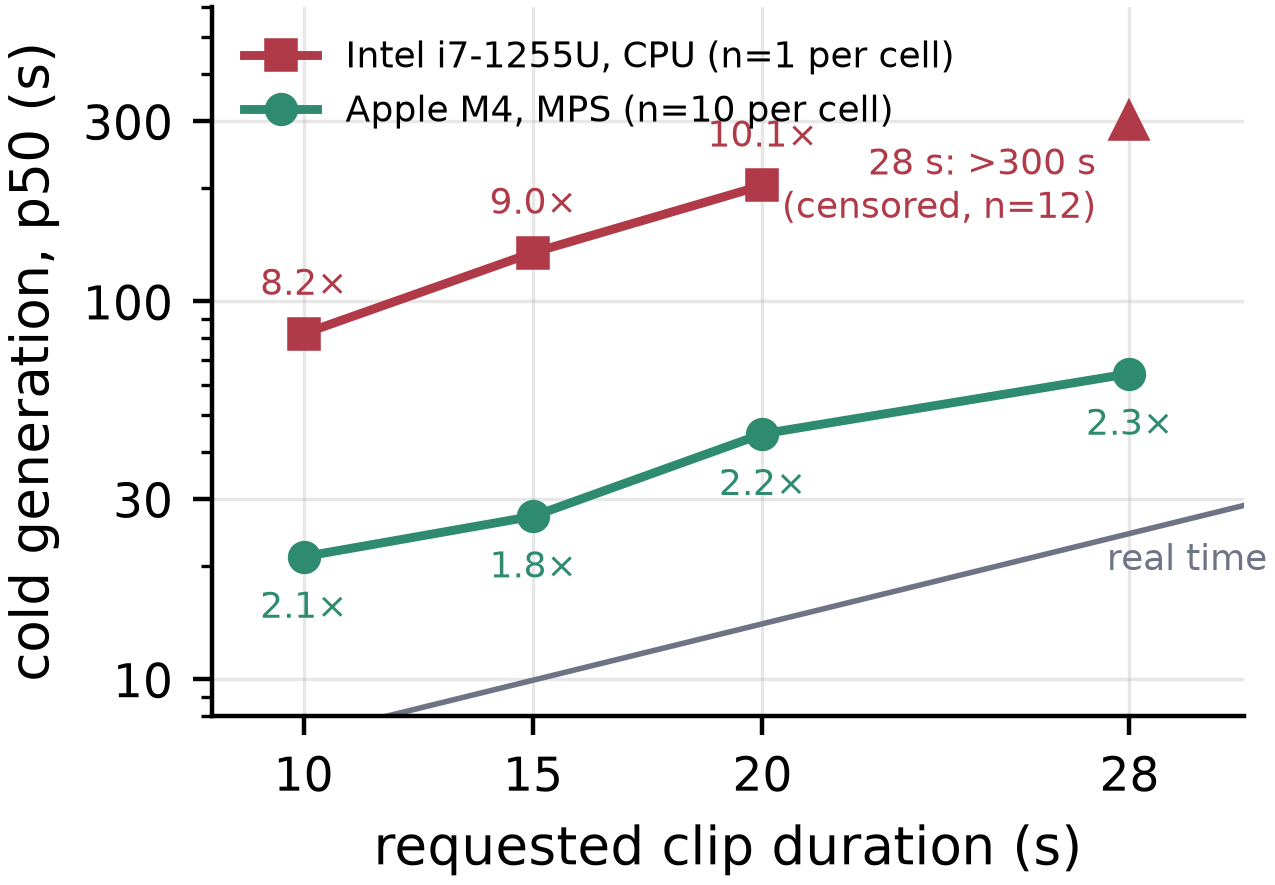
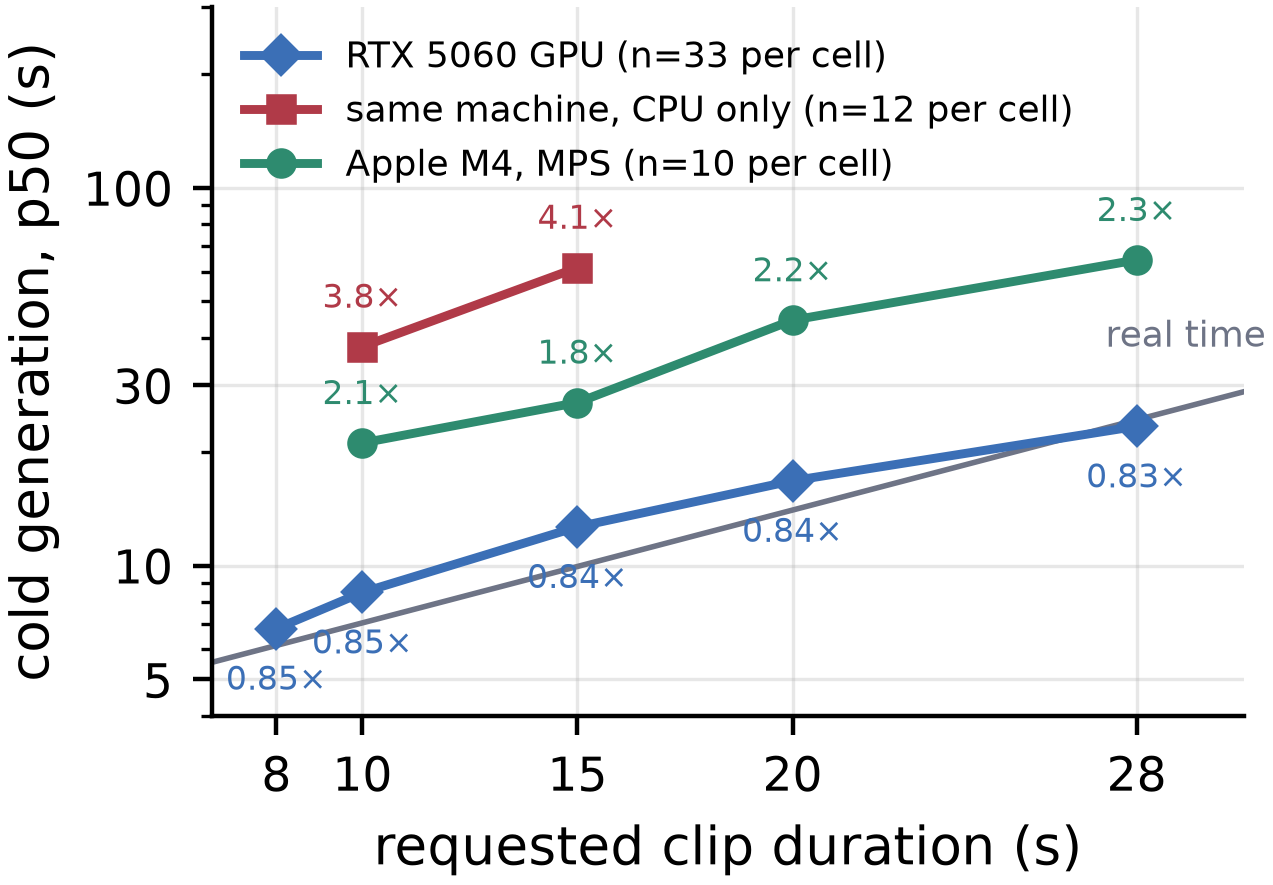
figure: cold generation on the RTX 5060, the CPU-only machine and the M4

diff --git a/analysis/figures/f11_cold_generation.py b/analysis/figures/f11_cold_generation.py
@@ -1,11 +1,9 @@
-"""F11 -- cold-generation time against requested clip duration, CPU vs Apple M4.
+"""F11 -- cold-generation time against requested clip duration: RTX 5060 GPU, the same machine
+with the GPU disabled (CPU), and Apple M4.
 
-Standalone script (like F9). CPU points are the three duration-sweep requests
-in d1-latency-full.json that reached MusicGen (one per cell); its 28 s cell
-never completed inside the 300 s client timeout and is drawn as censored. M4
-points are the cache-miss, non-fallback requests of d4-cold-rerun.json's
-duration section (ten per cell). Plotted value is d3_generate p50; labels are
-the real-time factor.
+Standalone script (like F9). GPU points are d4-duration-5060.json (33 cache-miss requests per
+cell), CPU points d4-duration-cpu2.json (12 per cell; no timeouts), M4 points d4-cold-rerun.json
+(ten per cell). Plotted value is the p50 of the d3 generate time; labels are the real-time factor.
 
 Run from the repo root:
     python -m analysis.figures.f11_cold_generation
@@ -20,12 +18,11 @@ from pathlib import Path
 from analysis.figures import _common as C
 
 REPO = Path(__file__).resolve().parent.parent.parent
-CPU_PATH = REPO / "audio-generation" / "results" / "d1-latency-full.json"
+GPU_PATH = REPO / "audio-generation" / "results" / "d4-duration-5060.json"
+CPU_PATH = REPO / "audio-generation" / "results" / "d4-duration-cpu2.json"
 M4_PATH = REPO / "audio-generation" / "results" / "d4-cold-rerun.json"
 OUT_PATH = REPO / "paper" / "figures" / "coldgen"
 
-CPU_TIMEOUT_S = 300
-CPU_TIMEOUTS_28S = 12
 
 
 def generate_p50(rows, require_miss=False):
@@ -41,38 +38,36 @@ def generate_p50(rows, require_miss=False):
 
 
 def build():
-    cpu = generate_p50(json.loads(CPU_PATH.read_text(encoding="utf-8"))["sections"]["duration"])
-    m4 = generate_p50(json.loads(M4_PATH.read_text(encoding="utf-8"))["sections"]["duration"],
-                      require_miss=True)
+    def load(path, require_miss):
+        rows = json.loads(path.read_text(encoding="utf-8"))["sections"]["duration"]
+        return generate_p50(rows, require_miss=require_miss)
+
+    gpu, cpu, m4 = load(GPU_PATH, True), load(CPU_PATH, True), load(M4_PATH, True)
 
     fig, ax = C.plt.subplots(figsize=(C.COL_W, 2.3))
-    red, green = C.PALETTE[4], C.PALETTE[2]
+    blue, red, green = C.PALETTE[0], C.PALETTE[4], C.PALETTE[2]
 
     ax.plot([5, 32], [5, 32], color=C.FAINT, lw=1.0)
-    ax.text(31, 23, "real time", ha="right", va="top", fontsize=6.5, color=C.FAINT)
+    ax.text(31, 36, "real time", ha="right", va="bottom", fontsize=6.5, color=C.FAINT)
 
     for series, colour, marker, label, dy in (
-        (cpu, red, "s", "Intel i7-1255U, CPU (n=1 per cell)", 7),
-        (m4, green, "o", "Apple M4, MPS (n=10 per cell)", -11),
+        (gpu, blue, "D", "RTX 5060 GPU (n=33 per cell)", -11),
+        (cpu, red, "s", "same machine, CPU only (n=12 per cell)", 7),
+        (m4, green, "o", "Apple M4, MPS (n=10 per cell)", 7),
     ):
         xs = list(series)
         ys = [series[d][0] for d in xs]
-        ax.plot(xs, ys, marker + "-", ms=5, color=colour, label=label)
+        ax.plot(xs, ys, marker + "-", ms=4.5, color=colour, label=label)
         for d, y in zip(xs, ys):
-            ax.annotate(f"{y / d:.1f}×", (d, y), xytext=(0, dy), textcoords="offset points",
-                        ha="center", fontsize=6.5, color=colour)
-
-    ax.plot([28], [CPU_TIMEOUT_S], "^", ms=6, color=red)
-    ax.annotate(f"28 s: >{CPU_TIMEOUT_S} s\n(censored, n={CPU_TIMEOUTS_28S})", (28, CPU_TIMEOUT_S),
-                xytext=(-6, -4), textcoords="offset points", ha="right", va="top",
-                fontsize=6.5, color=red)
+            ax.annotate(f"{y / d:.2f}×" if y / d < 1.5 else f"{y / d:.1f}×", (d, y), xytext=(0, dy),
+                        textcoords="offset points", ha="center", fontsize=6, color=colour)
 
     ax.set_yscale("log")
-    ax.set_yticks([10, 30, 100, 300])
-    ax.set_yticklabels(["10", "30", "100", "300"])
-    ax.set_xticks([10, 15, 20, 28])
-    ax.set_xlim(8, 30.5)
-    ax.set_ylim(8, 600)
+    ax.set_yticks([5, 10, 30, 100])
+    ax.set_yticklabels(["5", "10", "30", "100"])
+    ax.set_xticks([8, 10, 15, 20, 28])
+    ax.set_xlim(6.5, 30.5)
+    ax.set_ylim(4, 300)
     ax.set_xlabel("requested clip duration (s)")
     ax.set_ylabel("cold generation, p50 (s)")
     ax.legend(frameon=False, loc="upper left", fontsize=6.5)
@@ -80,7 +75,7 @@ def build():
     OUT_PATH.parent.mkdir(parents=True, exist_ok=True)
     C.save_fig(fig, OUT_PATH)
 
-    result = {"cpu": cpu, "m4": m4}
+    result = {"gpu": gpu, "cpu": cpu, "m4": m4}
     print(json.dumps(result, indent=2))
     return result
 

diff --git a/paper/main.tex b/paper/main.tex
@@ -662,7 +662,7 @@ player with cache hits (Section~\ref{sec:res-exposure}).
 
 \begin{figure}[t]
 \centerline{\includegraphics[width=\columnwidth]{figures/coldgen.pdf}}
-\caption{Generation time versus clip duration.}
+\caption{Cold generation time (p50) versus clip duration on the RTX 5060, on the same machine with the GPU disabled, and on the Apple M4; labels are the real-time factor of the generator call.}
 \label{fig:coldgen}
 \end{figure}
 
